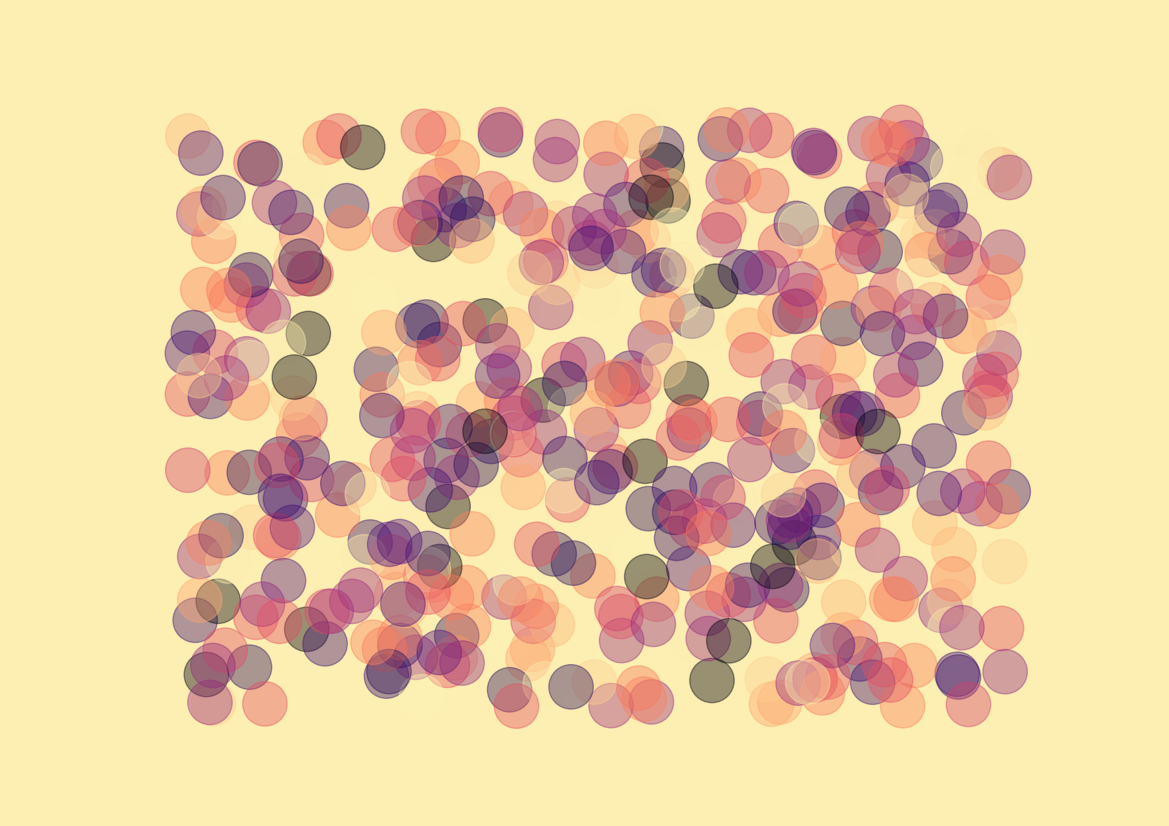
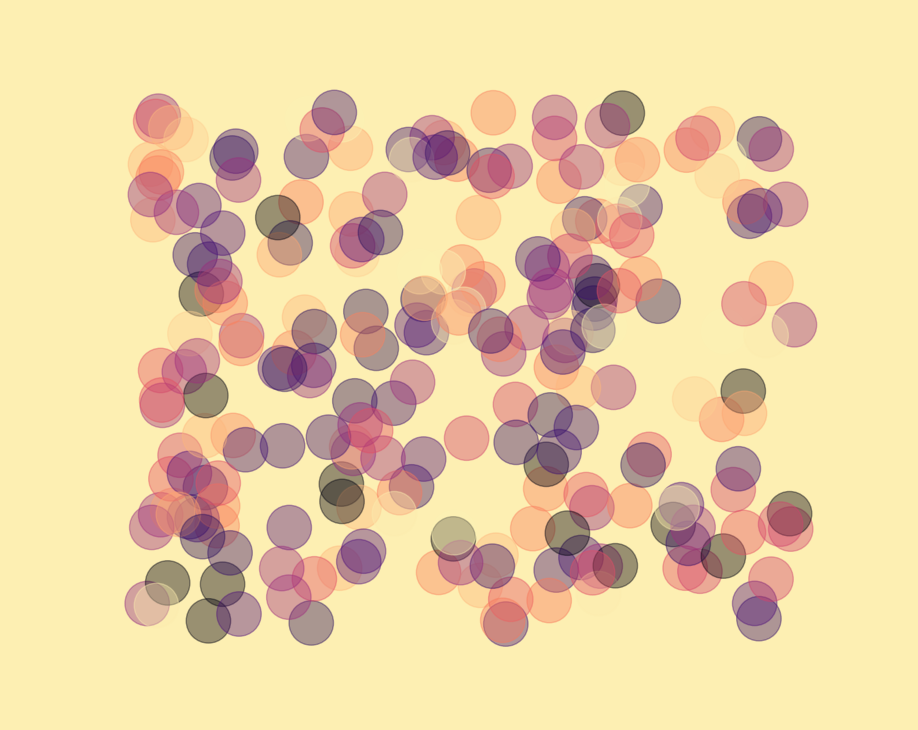
buubbles

diff --git a/bubbleart.py b/bubbleart.py
@@ -268,8 +268,8 @@ class QuantumArt:
 
     def build_art(self, noise, bubble_area, color_list, x, y):
         # A4 size proportions
-        xpixels = math.floor(self.dpi * 14032 / 1200)  # canvas_width default is dpi 1200, width 14032
-        ypixels = math.floor(self.dpi * 9922 / 1200)  # canvas_height default is dpi 1200, height 9922
+        xpixels = math.floor(self.dpi * 9922 / 1080)  # canvas_width default is dpi 1200, width 14032
+        ypixels = math.floor(self.dpi * 14032 / 1920)  # canvas_height default is dpi 1200, height 9922
 
         # get the size in inches
         xinch = xpixels / self.dpi
